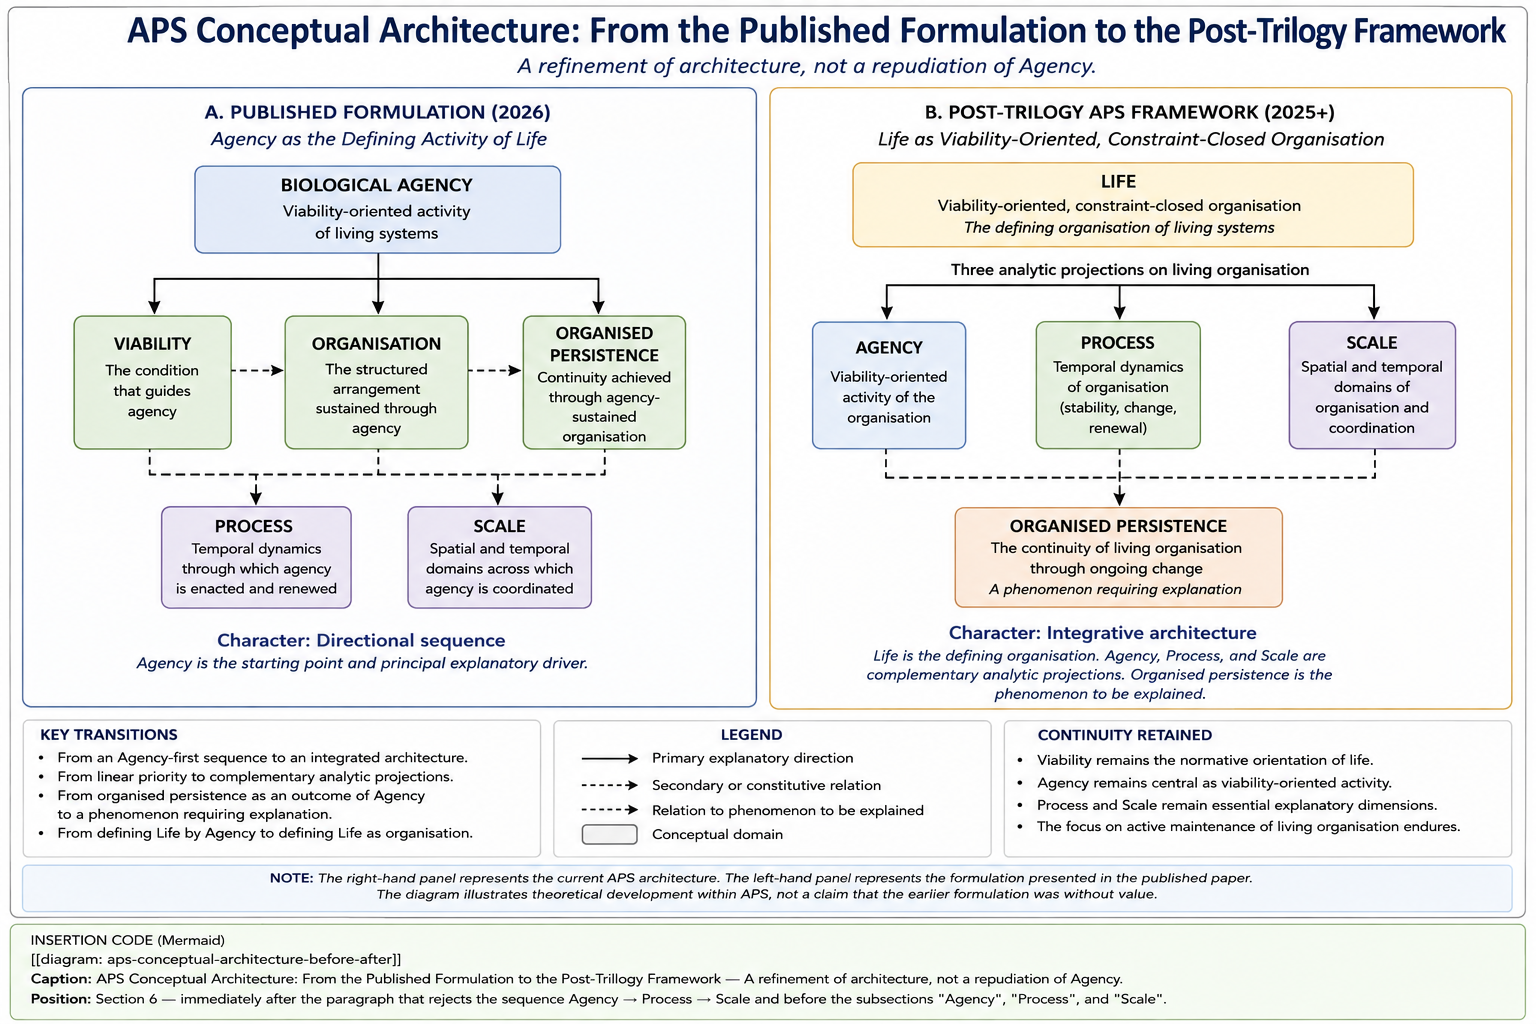
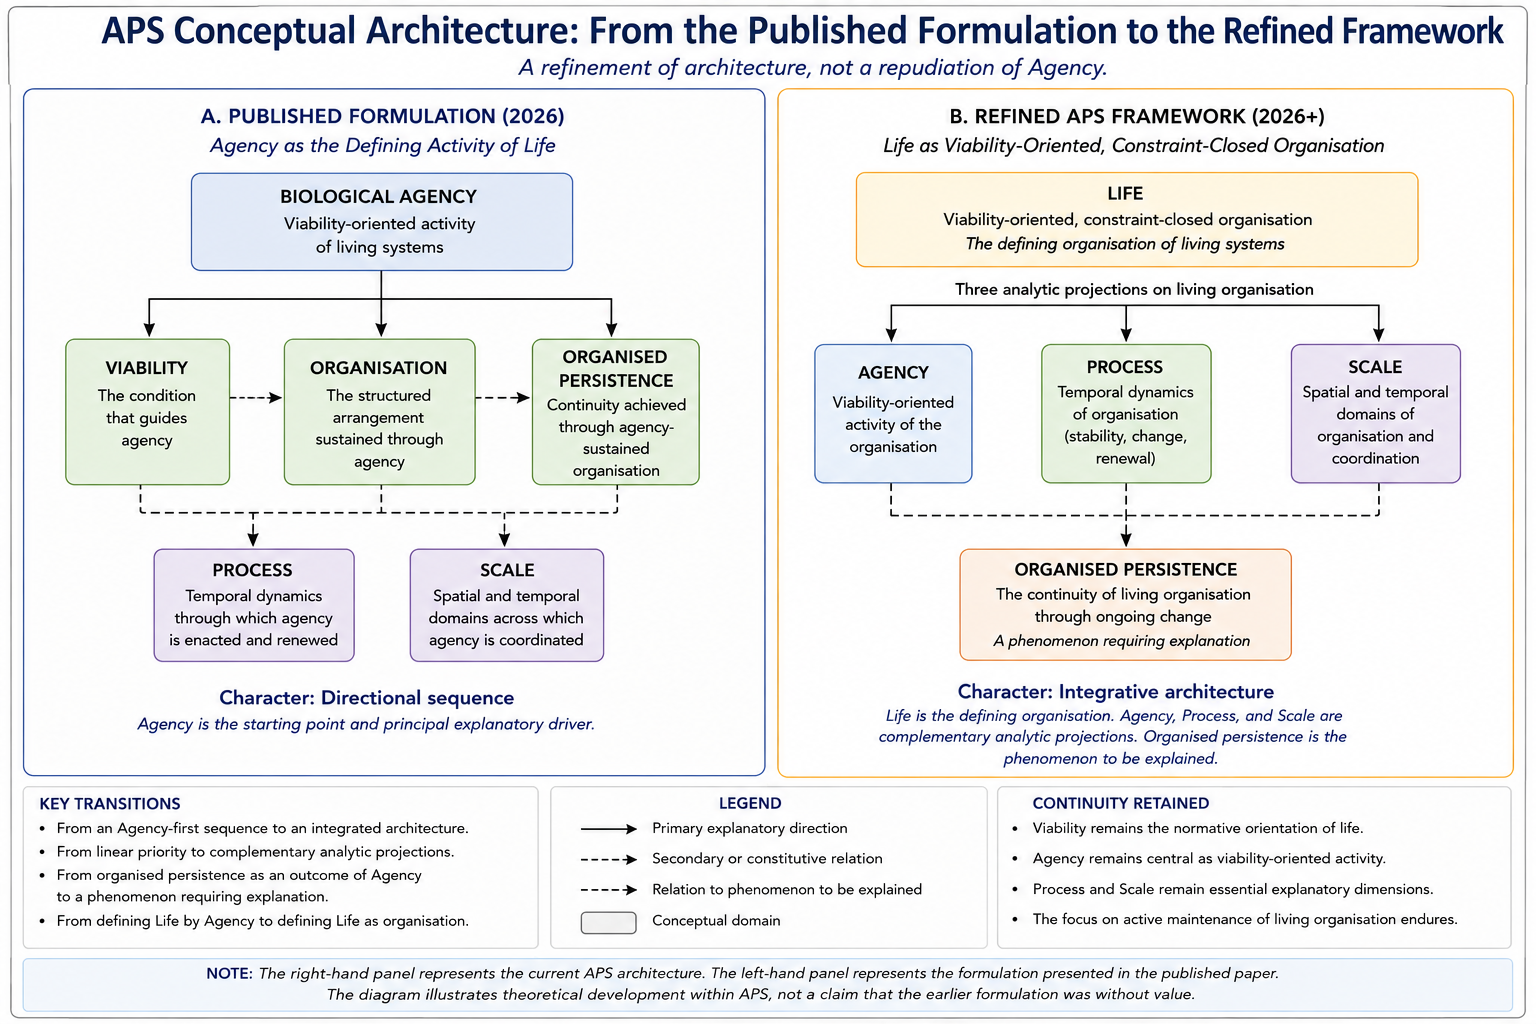
diagram

diff --git a/src/content/articles/agency-as-the-defining-activity-of-life.md b/src/content/articles/agency-as-the-defining-activity-of-life.md
@@ -416,15 +416,18 @@ That makes the framework narrower in some respects, but also more defensible.
 
 ## 8. Conclusion: Refinement Rather Than Repudiation
 
-The paper Agency as the Defining Activity of Life began with a strong proposal: living systems are distinguished by viability-oriented activity through which they contribute to maintaining and re-establishing the conditions of their own continued existence. That proposal remains important to APS.
+The paper *Agency as the Defining Activity of Life ...* began with a strong proposal: living systems are distinguished by viability-oriented activity through which they contribute to maintaining and re-establishing the conditions of their own continued existence. That proposal remains important to APS.
 
-Subsequent research has not overturned the central Agency insight. It has not made Agency synonymous with cognition or intention, abandoned viability or constraint closure, discarded the problem of organised persistence, or removed Agency, Process, and Scale from the framework. What has changed is the relationship among these ideas.
+Subsequent research has not overturned this central Agency insight. It has not made Agency synonymous with cognition or intention, abandoned viability or constraint closure, discarded the problem of organised persistence, or removed Agency, Process, and Scale from the framework. What has changed is the relationship among these ideas.
 
 The original paper asked Agency to perform several theoretical jobs simultaneously: it characterised what living systems do, helped define Life, connected viability with persistence, provided an entry point into Process and Scale, and supported broader claims about the explanatory integration APS might provide across biology. Subsequent development has separated these roles.
 
-The current position can therefore be stated compactly:
+The current developed and clarified position can therefore be stated concisely:
 
-Life is viability-oriented, constraint-closed organisation. Agency is the viability-oriented activity of that living organisation. Organised persistence is the continuity-through-change phenomenon requiring explanation. Agency, Process, and Scale are complementary analytic projections on the same living organisation.
+> Life is viability-oriented, constraint-closed organisation. 
+> Agency is the viability-oriented activity of that living organisation. 
+> Organised persistence is the continuity-through-change phenomenon requiring explanation. 
+> Agency, Process, and Scale are complementary analytic projections on the same living organisation.
 
 These distinctions make the framework less dependent upon any single concept. Agency remains central without having to carry the entire ontology of Life, which is why the development is better understood as refinement rather than repudiation.
 
